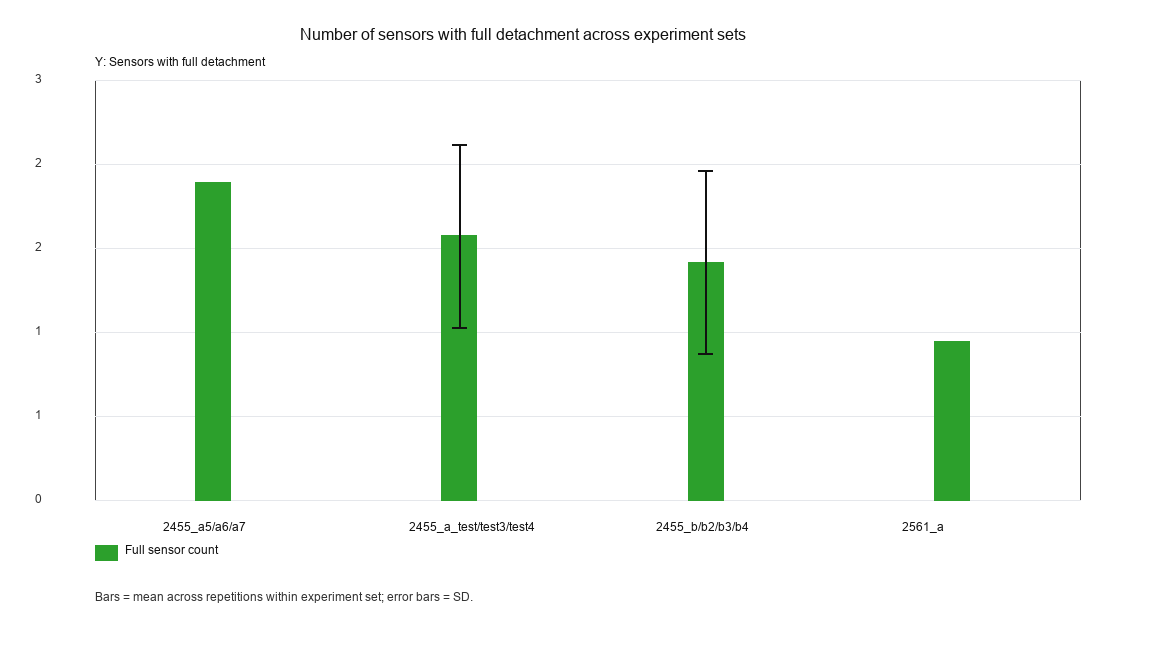
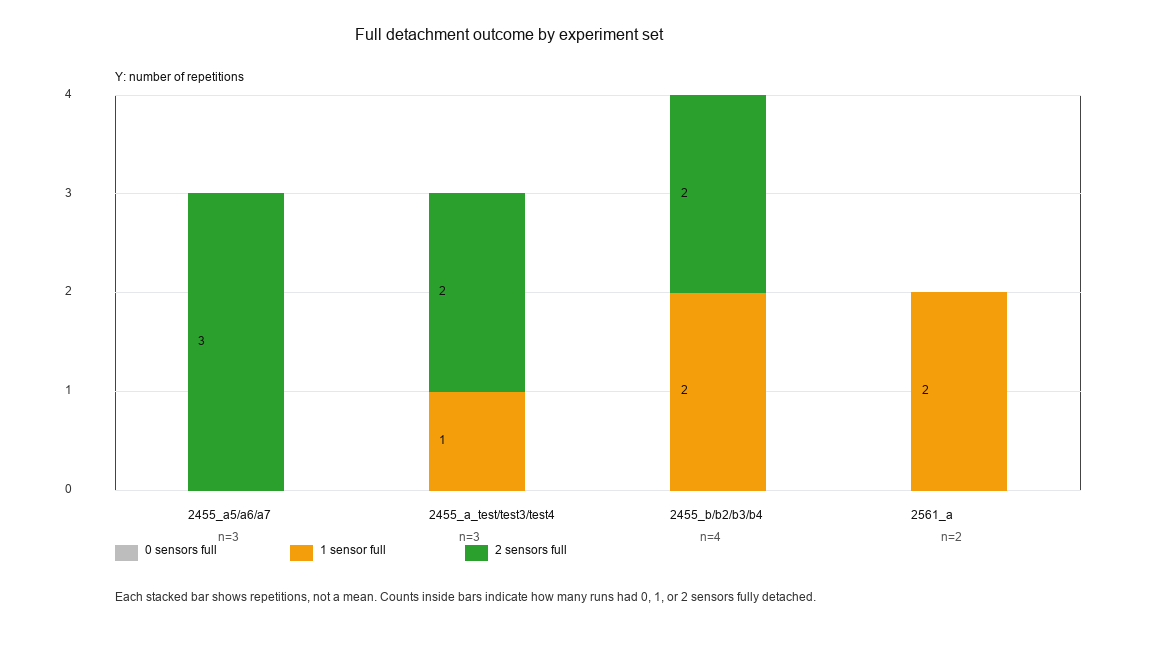
Improve full detachment sensor count plot

diff --git a/analyze_lab_trials.py b/analyze_lab_trials.py
@@ -2298,6 +2298,91 @@ def make_grouped_bar_figure(
     return path
 
 
+def make_full_sensor_count_distribution_figure(comparison: pd.DataFrame) -> Path | None:
+    if comparison.empty or "complete_detachment_sensor_count" not in comparison.columns:
+        return None
+    fig_dir = OUTPUT_DIR / "figures_lab"
+    fig_dir.mkdir(parents=True, exist_ok=True)
+    path = fig_dir / "detachment_full_sensor_counts_grouped_bars.png"
+    datasets = list(dict.fromkeys(comparison["dataset"].dropna().tolist()))
+    if not datasets:
+        return None
+
+    counts: dict[str, dict[int, int]] = {}
+    max_n = 0
+    for dataset in datasets:
+        vals = pd.to_numeric(
+            comparison.loc[comparison["dataset"].eq(dataset), "complete_detachment_sensor_count"],
+            errors="coerce",
+        ).dropna()
+        c = {0: 0, 1: 0, 2: 0}
+        for value in vals.astype(int):
+            if value in c:
+                c[value] += 1
+        counts[dataset] = c
+        max_n = max(max_n, int(vals.shape[0]))
+    max_n = max(max_n, 1)
+
+    img = Image.new("RGB", (1150, 650), "white")
+    draw = ImageDraw.Draw(img)
+    font, small = get_fonts()
+    title = "Full detachment outcome by experiment set"
+    draw.text((355, 25), title, fill="#111111", font=font)
+    plot = (115, 95, 1080, 490)
+    draw.rectangle(plot, outline="#444444", width=1)
+    for i in range(max_n + 1):
+        frac = i / max_n
+        y = plot[3] - frac * (plot[3] - plot[1])
+        draw.line((plot[0], y, plot[2], y), fill="#E5E7EB", width=1)
+        draw.text((65, y - 8), str(i), fill="#333333", font=small)
+    draw.text((plot[0], plot[1] - 25), "Y: number of repetitions", fill="#111111", font=small)
+
+    colors = {
+        0: "#BDBDBD",
+        1: "#F59E0B",
+        2: "#2CA02C",
+    }
+    labels = {
+        0: "0 sensors full",
+        1: "1 sensor full",
+        2: "2 sensors full",
+    }
+    group_width = (plot[2] - plot[0]) / max(len(datasets), 1)
+    bar_width = min(95, group_width * 0.42)
+    for d_idx, dataset in enumerate(datasets):
+        center = plot[0] + group_width * (d_idx + 0.5)
+        x0 = center - bar_width / 2
+        x1 = center + bar_width / 2
+        y_base = plot[3]
+        for sensor_count in [0, 1, 2]:
+            n = counts[dataset][sensor_count]
+            if n <= 0:
+                continue
+            height = n / max_n * (plot[3] - plot[1])
+            y_top = y_base - height
+            draw.rectangle((x0, y_top, x1, y_base), fill=colors[sensor_count])
+            label_y = (y_top + y_base) / 2 - 8
+            draw.text((x0 + 10, label_y), str(n), fill="#111111", font=small)
+            y_base = y_top
+        total = sum(counts[dataset].values())
+        draw.text((center - 48, plot[3] + 18), str(dataset), fill="#111111", font=small)
+        draw.text((center - 18, plot[3] + 40), f"n={total}", fill="#555555", font=small)
+
+    legend_x = 115
+    for idx, sensor_count in enumerate([0, 1, 2]):
+        x = legend_x + idx * 175
+        draw.rectangle((x, 545, x + 22, 560), fill=colors[sensor_count])
+        draw.text((x + 30, 543), labels[sensor_count], fill="#111111", font=small)
+    draw.text(
+        (115, 590),
+        "Each stacked bar shows repetitions, not a mean. Counts inside bars indicate how many runs had 0, 1, or 2 sensors fully detached.",
+        fill="#333333",
+        font=small,
+    )
+    img.save(path)
+    return path
+
+
 def make_detachment_comparison_figures(comparison: pd.DataFrame) -> list[Path]:
     if comparison.empty:
         return []
@@ -2323,10 +2408,7 @@ def make_detachment_comparison_figures(comparison: pd.DataFrame) -> list[Path]:
     p = make_grouped_bar_figure(offset_series, "US detachment offset times across experiment sets", "Absolute time (s)", "detachment_offsets_grouped_bars.png")
     if p is not None:
         paths.append(p)
-    count_series = {
-        "Full sensor count": detachment_group_stats(comparison, "complete_detachment_sensor_count"),
-    }
-    p = make_grouped_bar_figure(count_series, "Number of sensors with full detachment across experiment sets", "Sensors with full detachment", "detachment_full_sensor_counts_grouped_bars.png")
+    p = make_full_sensor_count_distribution_figure(comparison)
     if p is not None:
         paths.append(p)
     return paths